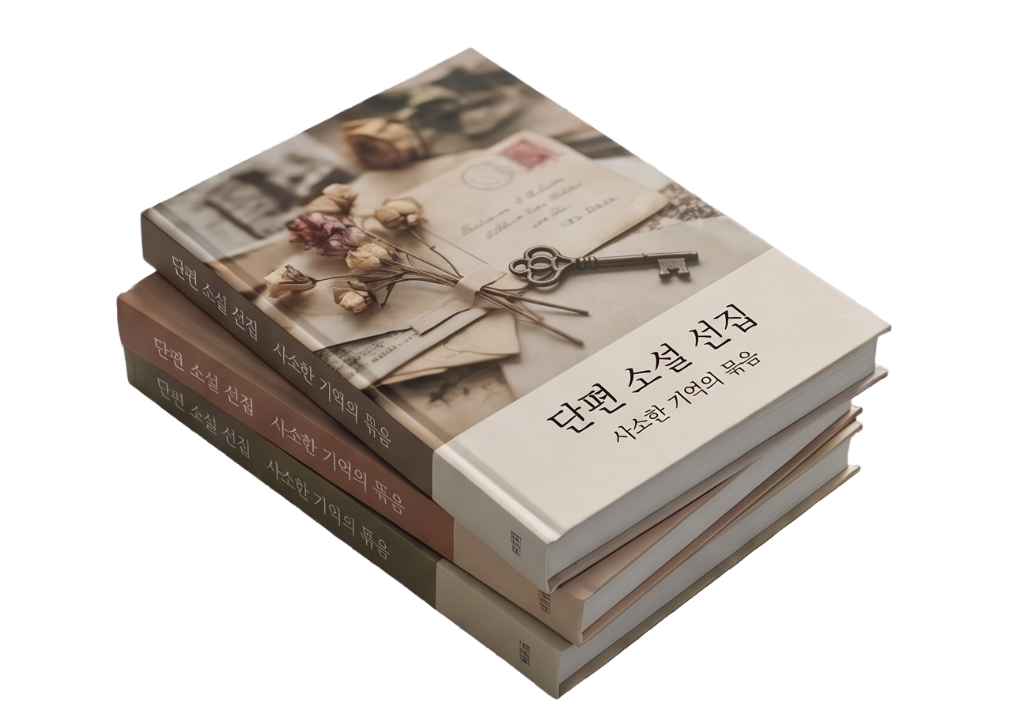
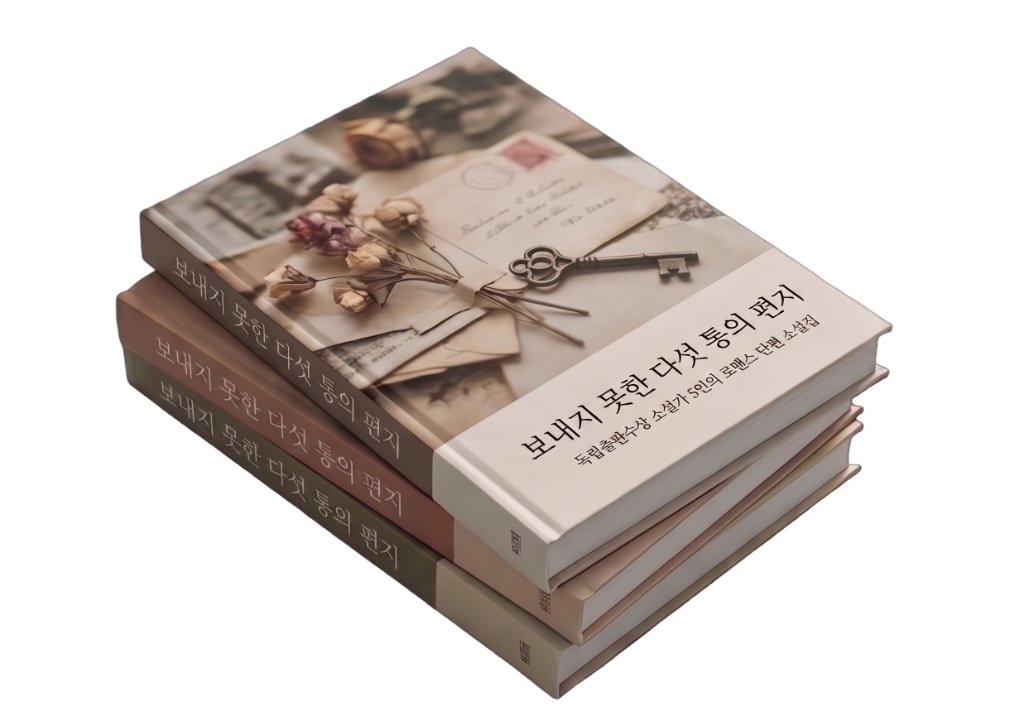
design: apply latest 3rd book transparent asset and format 2nd/3rd descriptions into 2-line layout

diff --git a/src/app/page.tsx b/src/app/page.tsx
@@ -18,7 +18,7 @@ const mockProjects = [
   {
     id: "mock-2",
     title: "한글 타이포그래피의 유산",
-    description: "납활자 인쇄 시절부터 현대 디지털 폰트 디자인까지, 한글 자형의 아름다움과 타이포그래피 유산을 정리한 전문 예술 도서",
+    description: "납활자 인쇄 시절부터 현대 디지털 폰트 디자인까지,\n한글 자형의 아름다움과 타이포그래피 유산을 정리한 전문 예술 도서",
     goal_amount: 5000000,
     current_amount: 1500000,
     deadline: new Date(Date.now() + 19 * 24 * 60 * 60 * 1000).toISOString(),
@@ -29,7 +29,7 @@ const mockProjects = [
   {
     id: "mock-3",
     title: "보내지 못한 다섯 통의 편지",
-    description: "독립출판 수상 소설가 5인이 각자 그려내는 사랑에 대한 기억의 조각을 엮은 로맨스 단편 소설집",
+    description: "독립출판상 수상 소설가 5인이 각자 그려내는\n사랑에 대한 기억의 조각을 엮은 로맨스 단편 소설집",
     goal_amount: 4000000,
     current_amount: 6400000,
     deadline: new Date(Date.now() + 2 * 24 * 60 * 60 * 1000).toISOString(),
@@ -111,18 +111,29 @@ export default async function Home() {
         const percent = Math.min(100, Math.round((project.current_amount / project.goal_amount) * 100))
         const realPercent = Math.round((project.current_amount / project.goal_amount) * 100)
 
-        // 프로젝트 타이틀 및 소개글 동적 변경 적용
+        // 프로젝트 타이틀 동적 적용
         const displayTitle = index === 0 
           ? "서점원들의 밤" 
           : index === 1
           ? "한글 타이포그래피의 유산"
           : "보내지 못한 다섯 통의 편지"
 
-        const displayDescription = index === 0 
-          ? "골목 모퉁이, 밤이 깊어 갈수록 빛나는 동네 책방들의 숨겨진 이야기와 따뜻한 일상을 담은 서점 직원들의 위로와 온기를 건네는 기록" 
-          : index === 1
-          ? "납활자 인쇄 시절부터 현대 디지털 폰트 디자인까지, 한글 자형의 아름다움과 타이포그래피 유산을 정리한 전문 예술 도서"
-          : "독립출판 수상 소설가 5인이 각자 그려내는 사랑에 대한 기억의 조각을 엮은 로맨스 단편 소설집"
+        // 프로젝트 설명 2열 줄바꿈 노드 동적 구성
+        const displayDescriptionNode = index === 0 ? (
+          <>
+            골목 모퉁이, 밤이 깊어 갈수록 빛나는 동네 책방들의 숨겨진 이야기와 따뜻한 일상을 담은 서점 직원들의 위로와 온기를 건네는 기록
+          </>
+        ) : index === 1 ? (
+          <>
+            납활자 인쇄 시절부터 현대 디지털 폰트 디자인까지,<br />
+            한글 자형의 아름다움과 타이포그래피 유산을 정리한 전문 예술 도서
+          </>
+        ) : (
+          <>
+            독립출판상 수상 소설가 5인이 각자 그려내는<br />
+            사랑에 대한 기억의 조각을 엮은 로맨스 단편 소설집
+          </>
+        )
 
         return (
           <div key={project.id} className="w-full flex flex-col">
@@ -148,9 +159,9 @@ export default async function Home() {
                   {displayTitle}
                 </h2>
 
-                {/* 요약 소개글 */}
+                {/* 요약 소개글 (2열 줄바꿈 구성) */}
                 <p className="mx-auto max-w-xl text-sm sm:text-base text-[#1C4025]/70 leading-relaxed font-light">
-                  {displayDescription}
+                  {displayDescriptionNode}
                 </p>
 
                 {/* 펀딩 프로그레스 바 (중앙 매핑) */}
